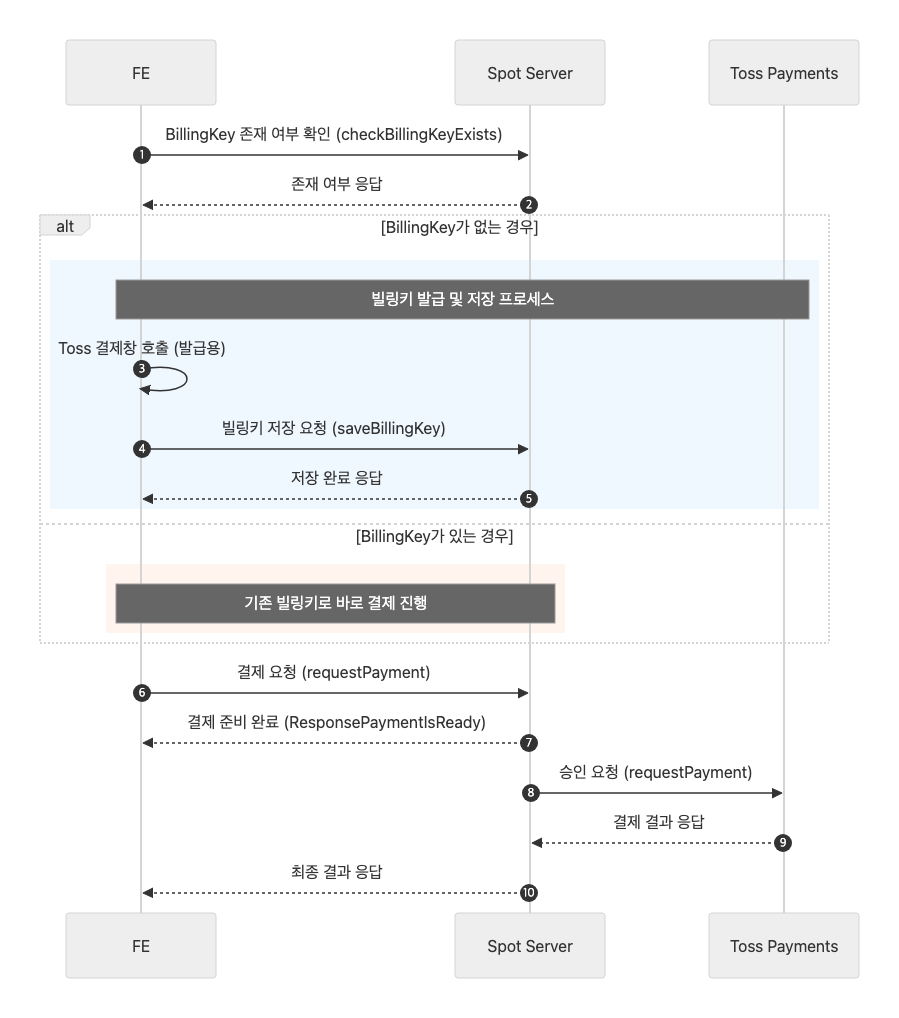
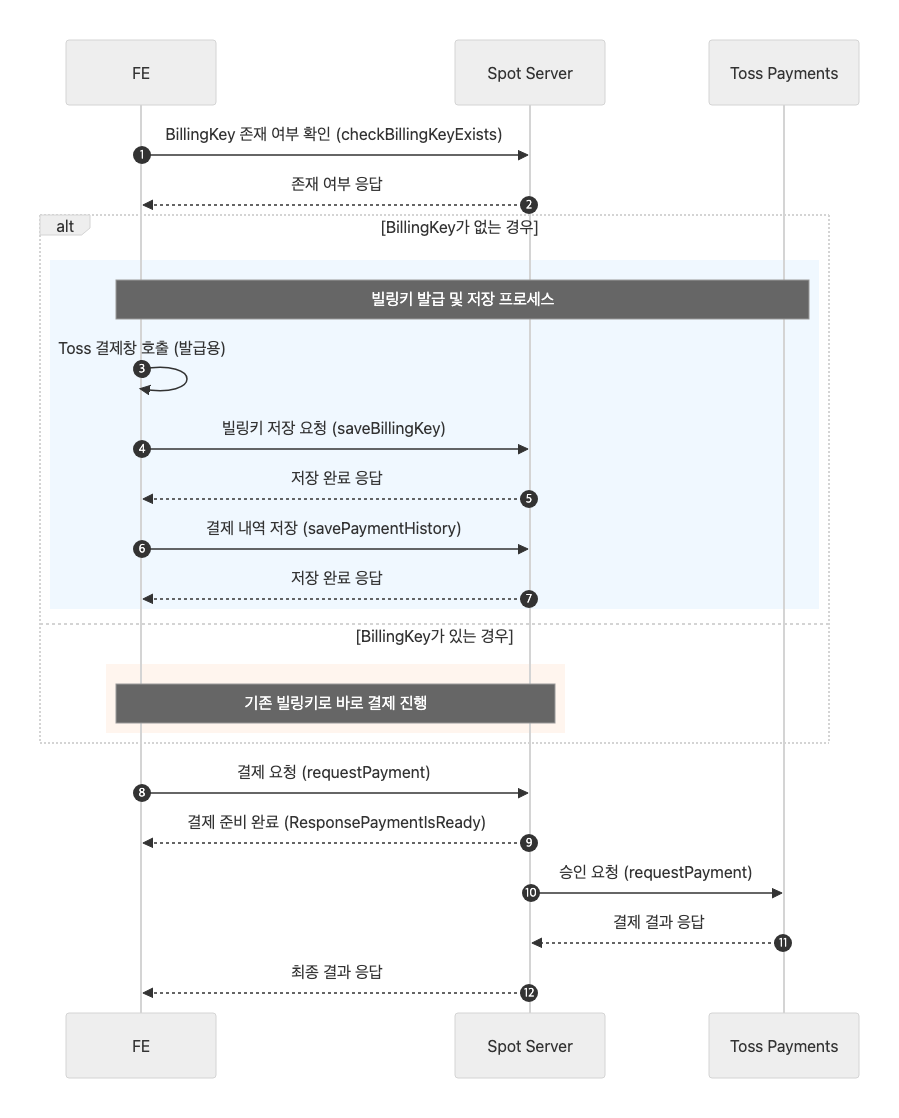
feat(#224): Payment 저장 API 추가
FE에서 결제까지 완료 후 정보를 저장하는 로직이 없어 추가하였습니다.

diff --git a/spot-payment/src/main/java/com/example/Spot/payments/application/service/PaymentService.java b/spot-payment/src/main/java/com/example/Spot/payments/application/service/PaymentService.java
@@ -366,4 +366,52 @@ public class PaymentService {
 
     return exists;
   }
+
+  // ************************** //
+  // FE 결제 완료 후 결제 내역 저장 //
+  // ************************** //
+  @Transactional
+  public PaymentResponseDto.SavedPaymentHistory savePaymentHistory(PaymentRequestDto.SavePaymentHistory request) {
+    // 사용자 존재 확인
+    validateUserExists(request.userId());
+    // 주문 존재 확인
+    validateOrderExists(request.orderId());
+
+    // Payment 엔티티 생성 및 저장
+    PaymentEntity payment = PaymentEntity.builder()
+        .userId(request.userId())
+        .orderId(request.orderId())
+        .title(request.title())
+        .content(request.content())
+        .paymentMethod(request.paymentMethod())
+        .totalAmount(request.paymentAmount())
+        .build();
+
+    PaymentEntity savedPayment = paymentRepository.save(payment);
+
+    // PaymentHistory에 DONE 상태로 저장
+    PaymentHistoryEntity history = PaymentHistoryEntity.builder()
+        .paymentId(savedPayment.getId())
+        .status(PaymentHistoryEntity.PaymentStatus.DONE)
+        .build();
+
+    paymentHistoryRepository.save(history);
+
+    // PaymentKey 저장
+    PaymentKeyEntity paymentKey = PaymentKeyEntity.builder()
+        .paymentId(savedPayment.getId())
+        .paymentKey(request.paymentKey())
+        .confirmedAt(LocalDateTime.now())
+        .build();
+
+    paymentKeyRepository.save(paymentKey);
+
+    return PaymentResponseDto.SavedPaymentHistory.builder()
+        .paymentId(savedPayment.getId())
+        .orderId(savedPayment.getOrderId())
+        .status("DONE")
+        .amount(savedPayment.getTotalAmount())
+        .savedAt(LocalDateTime.now())
+        .build();
+  }
 }

diff --git a/spot-payment/src/main/java/com/example/Spot/payments/presentation/dto/request/PaymentRequestDto.java b/spot-payment/src/main/java/com/example/Spot/payments/presentation/dto/request/PaymentRequestDto.java
@@ -41,4 +41,15 @@ public class PaymentRequestDto {
       @Schema(description = "사용자 ID", example = "1") @NotNull Integer userId,
       @Schema(description = "고객 키", example = "customer_1") @NotNull String customerKey,
       @Schema(description = "인증 키", example = "authKey_xxxxx") @NotNull String authKey) {}
+
+  @Builder
+  @Schema(description = "결제 내역 저장 요청 (FE 결제 완료 후)")
+  public record SavePaymentHistory(
+      @Schema(description = "사용자 ID", example = "1") @NotNull Integer userId,
+      @Schema(description = "주문 ID", example = "123e4567-e89b-12d3-a456-426614174000") @NotNull UUID orderId,
+      @Schema(description = "결제 제목", example = "치킨 주문 결제") @NotNull String title,
+      @Schema(description = "결제 내용", example = "후라이드 치킨 1마리") @NotNull String content,
+      @Schema(description = "결제 방법", example = "CREDIT_CARD") @NotNull PaymentMethod paymentMethod,
+      @Schema(description = "결제 금액 (원 단위)", example = "18000") @NotNull Long paymentAmount,
+      @Schema(description = "Toss Payment Key", example = "tgen_20240105153000abcd") @NotNull String paymentKey) {}
 }

diff --git a/spot-payment/src/main/java/com/example/Spot/payments/presentation/dto/response/PaymentResponseDto.java b/spot-payment/src/main/java/com/example/Spot/payments/presentation/dto/response/PaymentResponseDto.java
@@ -81,4 +81,13 @@ public class PaymentResponseDto {
       @Schema(description = "고객 키", example = "customer_1") String customerKey,
       @Schema(description = "빌링키", example = "billing_key_xxxxx") String billingKey,
       @Schema(description = "저장 시간", example = "2024-01-05T15:30:00") LocalDateTime savedAt) {}
+
+  @Builder
+  @Schema(description = "결제 내역 저장 응답")
+  public record SavedPaymentHistory(
+      @Schema(description = "결제 ID", example = "123e4567-e89b-12d3-a456-426614174000") UUID paymentId,
+      @Schema(description = "주문 ID", example = "123e4567-e89b-12d3-a456-426614174000") UUID orderId,
+      @Schema(description = "결제 상태", example = "DONE") String status,
+      @Schema(description = "결제 금액", example = "18000") Long amount,
+      @Schema(description = "저장 시간", example = "2024-01-05T15:30:00") LocalDateTime savedAt) {}
 }

diff --git a/spot-payment/src/main/java/com/example/Spot/payments/presentation/controller/PaymentController.java b/spot-payment/src/main/java/com/example/Spot/payments/presentation/controller/PaymentController.java
@@ -103,4 +103,14 @@ public class PaymentController {
         System.out.println("빌링키 존재 여부: " + exists + " (UserId: " + principal.getUserId() + ")");
         return ApiResponse.onSuccess(GeneralSuccessCode.GOOD_REQUEST, exists);
     }
+
+    @PostMapping("/history")
+    @PreAuthorize("hasAnyRole('CUSTOMER', 'OWNER', 'MANAGER', 'MASTER')")
+    public ApiResponse<PaymentResponseDto.SavedPaymentHistory> savePaymentHistory(
+            @Valid @RequestBody PaymentRequestDto.SavePaymentHistory request,
+            @AuthenticationPrincipal CustomUserDetails principal
+    ) {
+        PaymentResponseDto.SavedPaymentHistory response = paymentService.savePaymentHistory(request);
+        return ApiResponse.onSuccess(GeneralSuccessCode.GOOD_REQUEST, response);
+    }
 }
